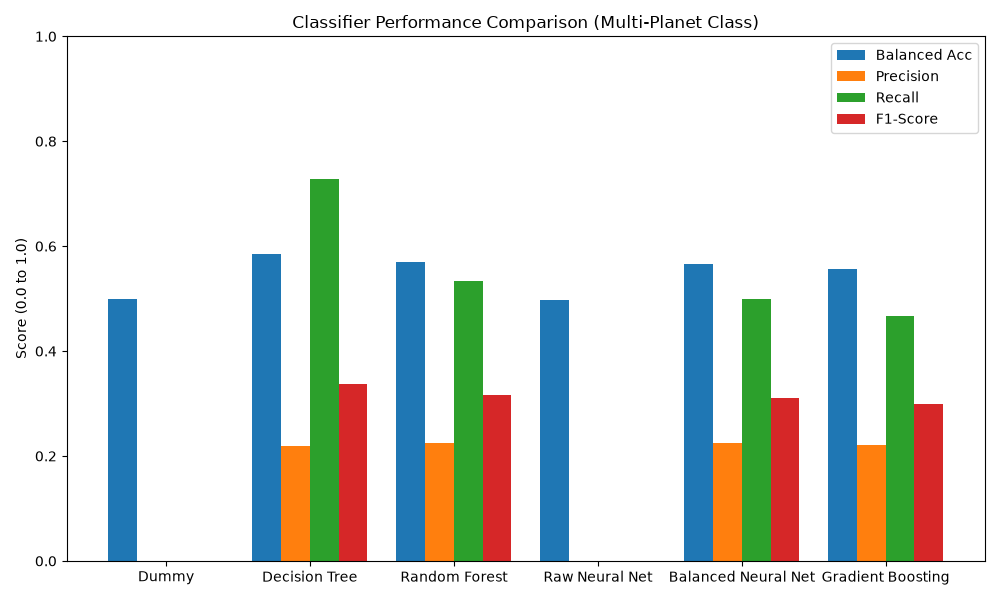
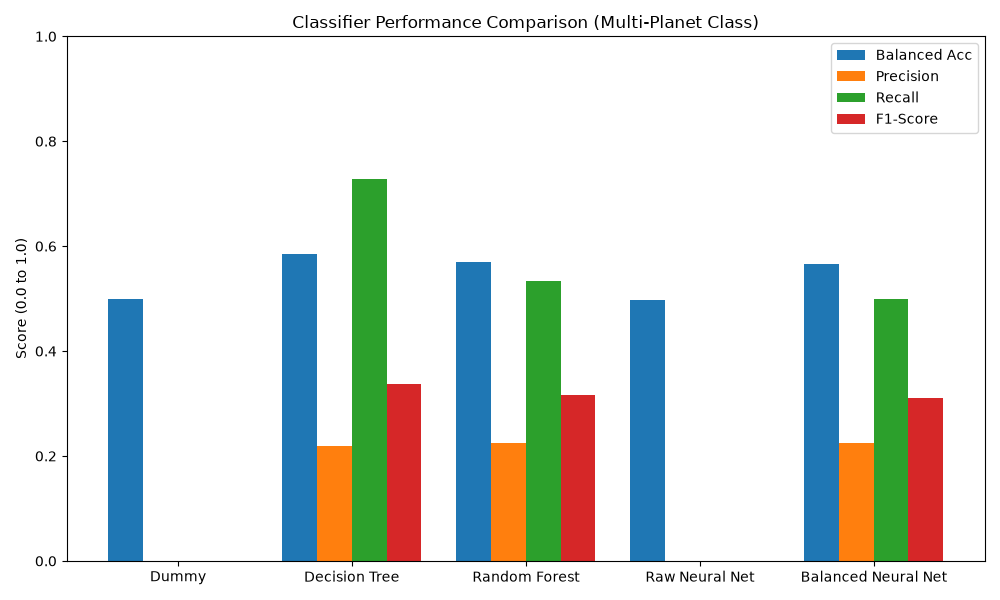
Wrote the milestone 3 report, updated readme.md and removed a few more redundant imports

Changed region(s): [[0.248, 0.3, 0.961, 0.99], [0.124, 0.51, 0.217, 0.99]]

diff --git a/main.py b/main.py
@@ -6,14 +6,13 @@ from sklearn.metrics import (
     f1_score, 
     balanced_accuracy_score
 )
-from preprocessing import X_train, X_test, y_train, y_test
+from preprocessing import X_train, y_test
 from utils import plot_feature_importance, plot_model_comparison
 from random_forest_classifier import rf_classifier, y_pred_rf
 from decision_tree_classifier import y_pred_dt
 from dummy_classifier import  y_pred_baseline
 from neural_network_classifier import  y_pred_nn
 from nn_classifier_v2 import  y_pred_nn_v2
-from gradient_boost_classifier import  y_pred_hgb
 
 # Save feature importance chart
 plot_feature_importance(rf_classifier, X_train.columns)
@@ -49,12 +48,6 @@ results = {
         precision_score(y_test, y_pred_nn_v2, zero_division=0),
         recall_score(y_test, y_pred_nn_v2, zero_division=0),
         f1_score(y_test, y_pred_nn_v2, zero_division=0)
-    ],
-    "Gradient Boosting": [
-        balanced_accuracy_score(y_test, y_pred_hgb),
-        precision_score(y_test, y_pred_hgb, zero_division=0),
-        recall_score(y_test, y_pred_hgb, zero_division=0),
-        f1_score(y_test, y_pred_hgb, zero_division=0)
     ]
 }
 

diff --git a/Milestone3_report.md b/Milestone3_report.md
@@ -1,0 +1,45 @@
+# Milestone 3: Model Comparison Checkpoint
+**Student Name:** Eunan Ó Gallachóir  
+**Student ID:** 23437944  
+**Project Repository:** https://github.com/eunangallagher/exoplanet_system_classifier
+
+---
+
+## 1. Model Comparison Results Table
+All models were trained on the exact same stratified 80% training split (2,674 systems) and evaluated on the 20% test set (669 systems).
+
+| Model | Overrall Accuracy | Balanced Accuracy | Precision (Multi) | Recall (Multi) | F1-Score (Multi) |
+| :--- | :---: | :---: | :---: | :---: | :---: |
+| **Dummy Classifier (Baseline)** | 82.36% | 50.00% | 0.00 | 0.00 | 0.00 |
+| **Decision Tree Classifier** | 49.33% | 58.58% | 0.22 | 0.73 | 0.34 |
+| **Random Forest Classifier** | 59.34% | 57.00% | 0.23 | 0.53 | 0.32 |
+| **Raw Neural Net (MLP v1)** | 81.91% | 49.73% | 0.00 | 0.00 | 0.00 |
+| **Balanced Neural Net (MLP v2)** | 60.84% | 56.58% | 0.23 | 0.50 | 0.31 |
+
+---
+
+## 2. Main Model Settings & Tuning Explanation
+* **Tree Class Balancing (`class_weight="balanced"`):** Because single-planet systems make up 82.4% of the dataset standard models ignore the minority class. SSetting `class_weight="balanced"` in the Decision Tree (`max_depth=5`) and Random Forest (`n_estimators=100`, `max_depth=8`) penalized errors on multi-planet systems more heavily and prevented overfitting.
+*   **Neural Network Scaling & Oversampling:** Features were scaled using `StandardScaler` inside a pipeline to prevent data leakage and stop large temperature values (`st_teff`) from dominating smaller metallicity values (`st_met`). Because `MLPClassifier` lacks a `class_weight` parameter, `MLP v1` collapsed into guessing the majority class. For `MLP v2`, random oversampling (`sklearn.utils.resample`) was applied strictly to `X_train` to create a 50/50 balanced training set, paired with smaller hidden layers `(32, 16)` and L2 regularization (`alpha=0.1`).
+
+---
+## 3. Visualisations & Error Analysis
+Two visualisations were generated via `utils.py` to evaluate the models:
+*   **`model_comparison.png`:** Compares Balanced Accuracy, Precision, Recall, and F1-Score across all five models, clearly illustrating the jump from `0.00` Recall on the Dummy and Raw Neural Net models to balanced detection on the tuned models.
+*   **`feature_importance.png`:** Shows that **Effective Temperature (`st_teff`, ~0.24)** and **Surface Gravity (`st_logg`, ~0.22)** were the strongest predictors in the Random Forest, while **Number of Stars (`sy_snum`, ~0.015)** contributed the least.
+
+### Where the Models Perform Poorly (Error Analysis)
+*   **False Positives on Single-Planet Stars:** Forcing the models to detect the minority class caused them to over-predict multi-planet systems. The Decision Tree falsely flagged **307** single-planet stars as multi-planet systems, while the Random Forest reduced this to **217**, and the Balanced Neural Net achieved the lowest false-alarm count at **203**.
+*   **Missed Multi-Planet Systems (False Negatives):** While the Balanced Neural Net kept false alarms lowest, it still missed half of the true multi-planet systems in the test set (`59` True Positives vs. `59` False Negatives). In contrast, the Decision Tree caught `86` of `118` multi-planet systems (`0.73` Recall) but suffered from poor overall accuracy (`49.33%`).
+
+---
+
+## 4. Draft Conclusion & Next Steps
+*   **Current Best Model:** The **Balanced Neural Network (MLP v2)** is currently the best overall model. Among all models that actually detect multi-planet systems, it achieved the highest overall accuracy (**60.84%**) and the lowest number of false positives (**203**), while maintaining a solid multi-planet Recall (**0.50**) and F1-Score (**0.31**). The **Random Forest** is a very close runner-up (`59.34%` accuracy, `57.00%` balanced accuracy) and provides valuable feature interpretability.
+*   **Key Limitation:** Many "single-planet" stars in the NASA archive likely host additional smaller or wider-orbiting planets that current telescopes have not yet detected (selection bias). This introduces noisy labels into the dataset where true multi-planet stars are mislabelled as Class 0.
+*   **Next Steps for Milestone 4:** Test hyperparameter tuning (such as testing different probability thresholds or neural network layer sizes), generate confusion matrix visualisations for the final report, and prepare the 3,000-word report and 5-minute demonstration video.
+
+---
+
+## 5. Assistance Declaration
+I used GitHub Copilot in VS Code to help structure the scikit-learn evaluation metrics, oversampling pipeline and matplotlib plotting syntax. All code was run, verified, and interpreted by me locally.

diff --git a/README.md b/README.md
@@ -7,5 +7,5 @@ whether a multi-planet or single-planet system orbits a star.
 1. Clone or download this folder
 2. Open terminal in root directory of this folder
 3. Run "pip install -r requirements.txt" to install packages
-4. Run "python preprocessing.py" to run source code
+4. Run "python main.py" to run each model and get the metrics and graphs
 
